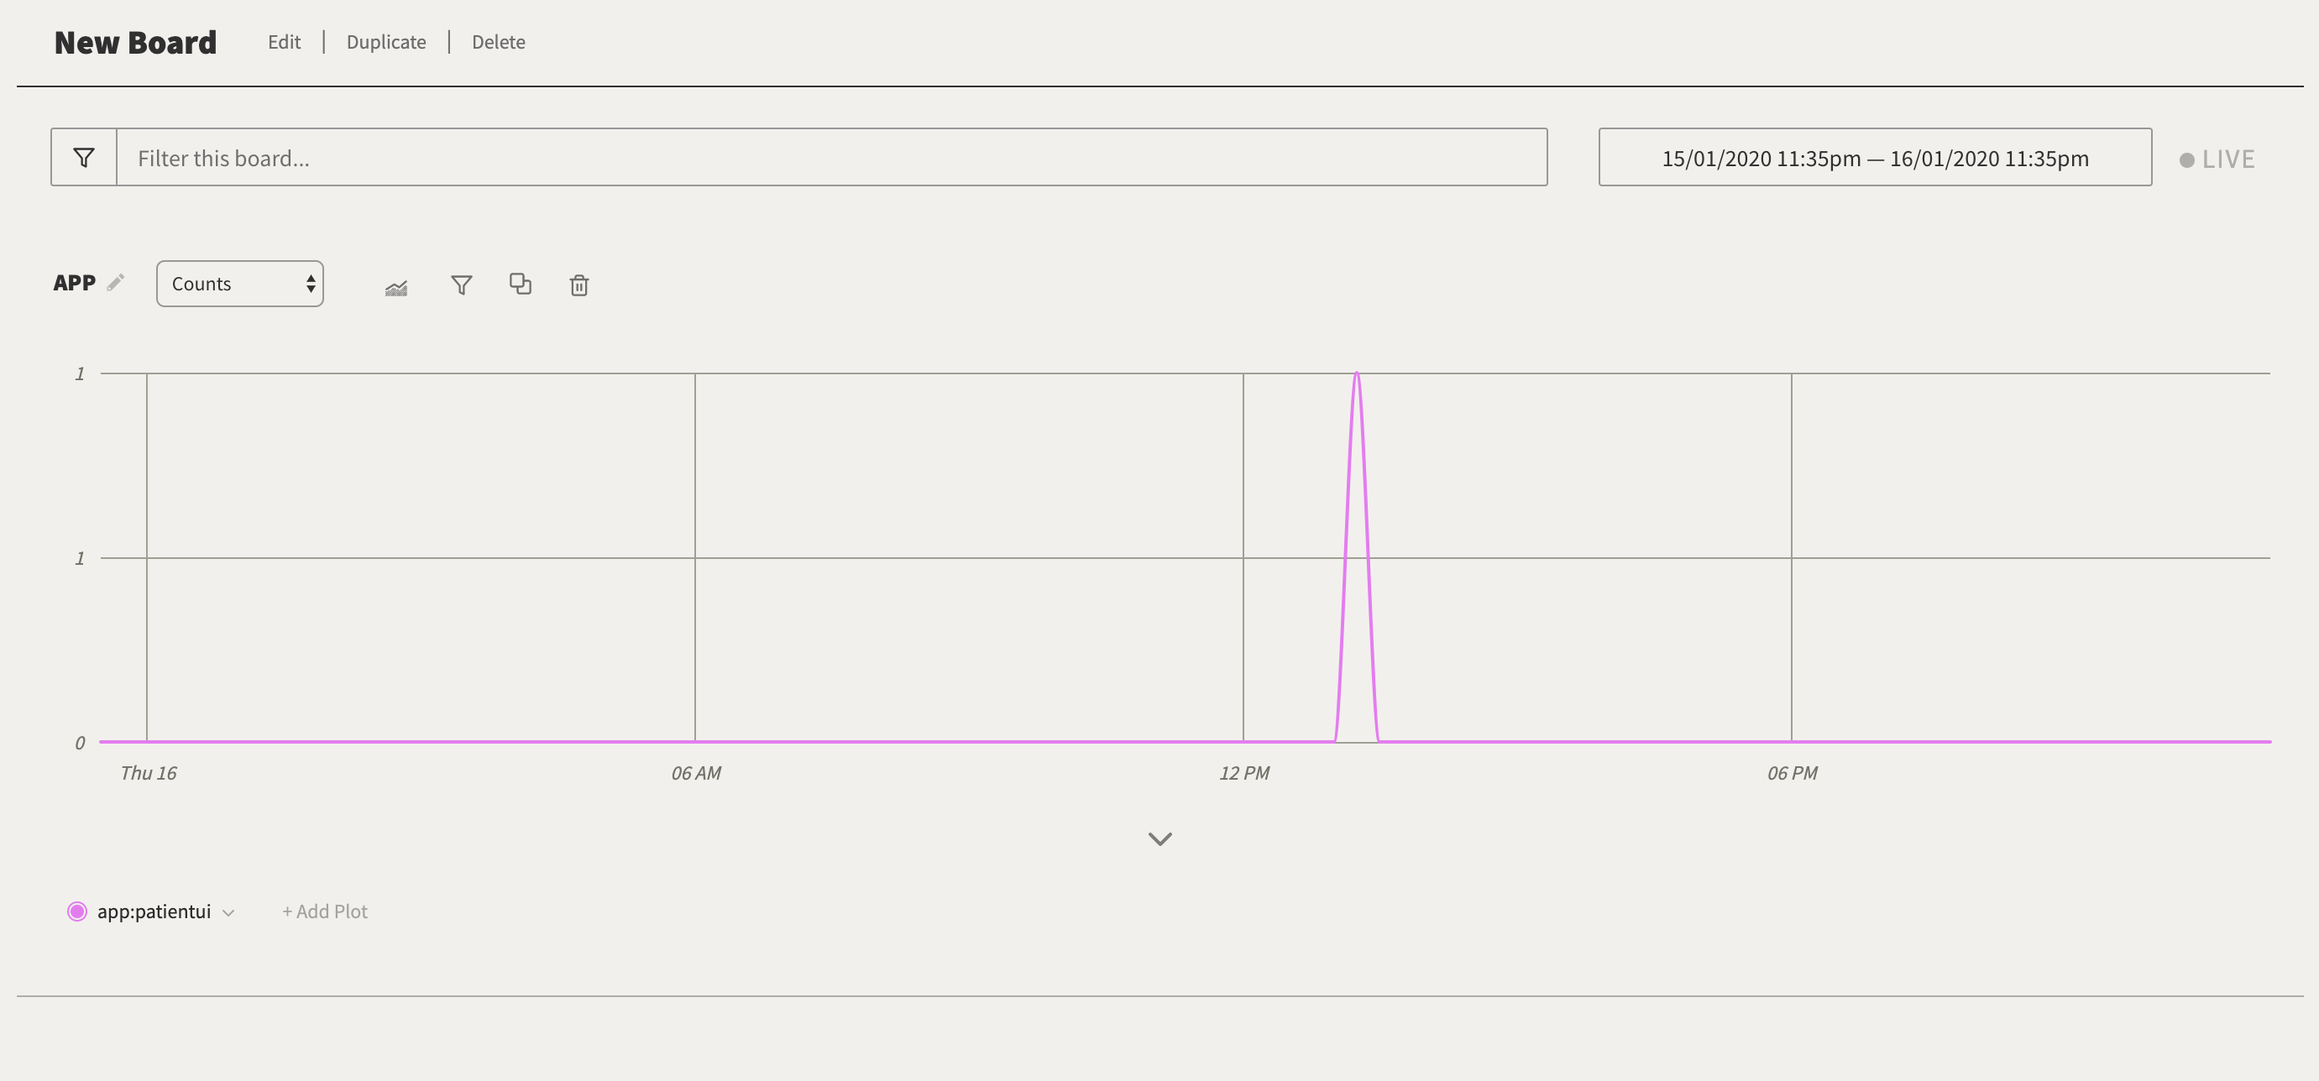
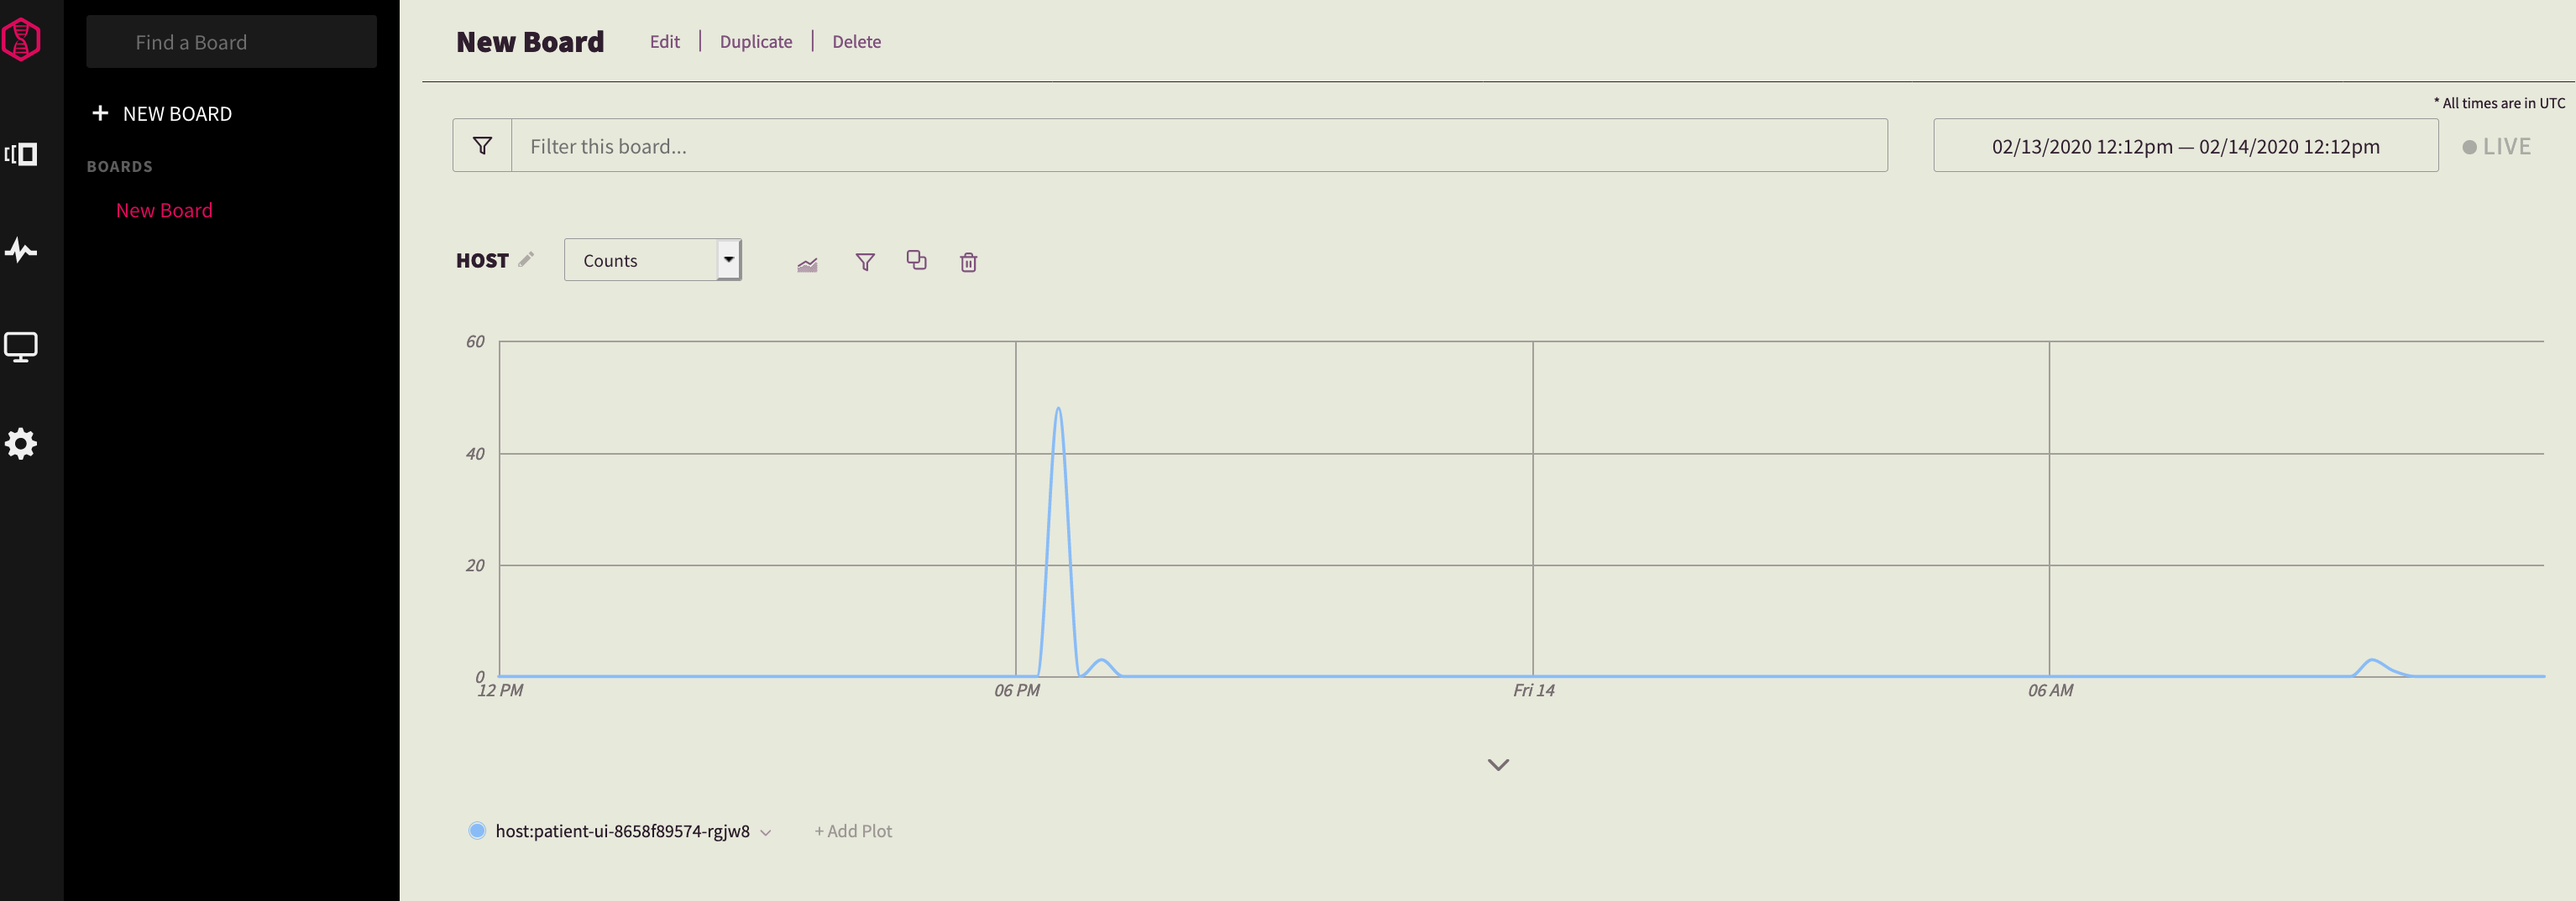
updated dashboard section in logdna exercise

diff --git a/workshop/part2-openshift_ibmcloud/exercise-8.md b/workshop/part2-openshift_ibmcloud/exercise-8.md
@@ -47,7 +47,7 @@ Complete the following steps:
 
    ![](../assets/views-img1.png)
 
-2. Enter in the search bar the following query.
+2. Enter in the search bar the following query: `host:{podName}` where {podName} is the name of your pod. For example: `host:patient-ui-8658f89574-rgjw8`
 
    ![](../assets/views-img2.png)
 
@@ -55,7 +55,7 @@ Complete the following steps:
 
 3. Filter out log lines to display only lines that are tagged as debug lines. 
 
-   Add in the search bar the following query: `level:debug` and click enter. The view will show lines that meet the filter and search criteria.
+   Add in the search bar the following query: `level:debug` and click enter. The view will show lines that meet the filter and search criteria. For example: `host:patient-ui-8658f89574-rgjw8 level:debug` 
 
    ![](../assets/views-img3.png)
 
